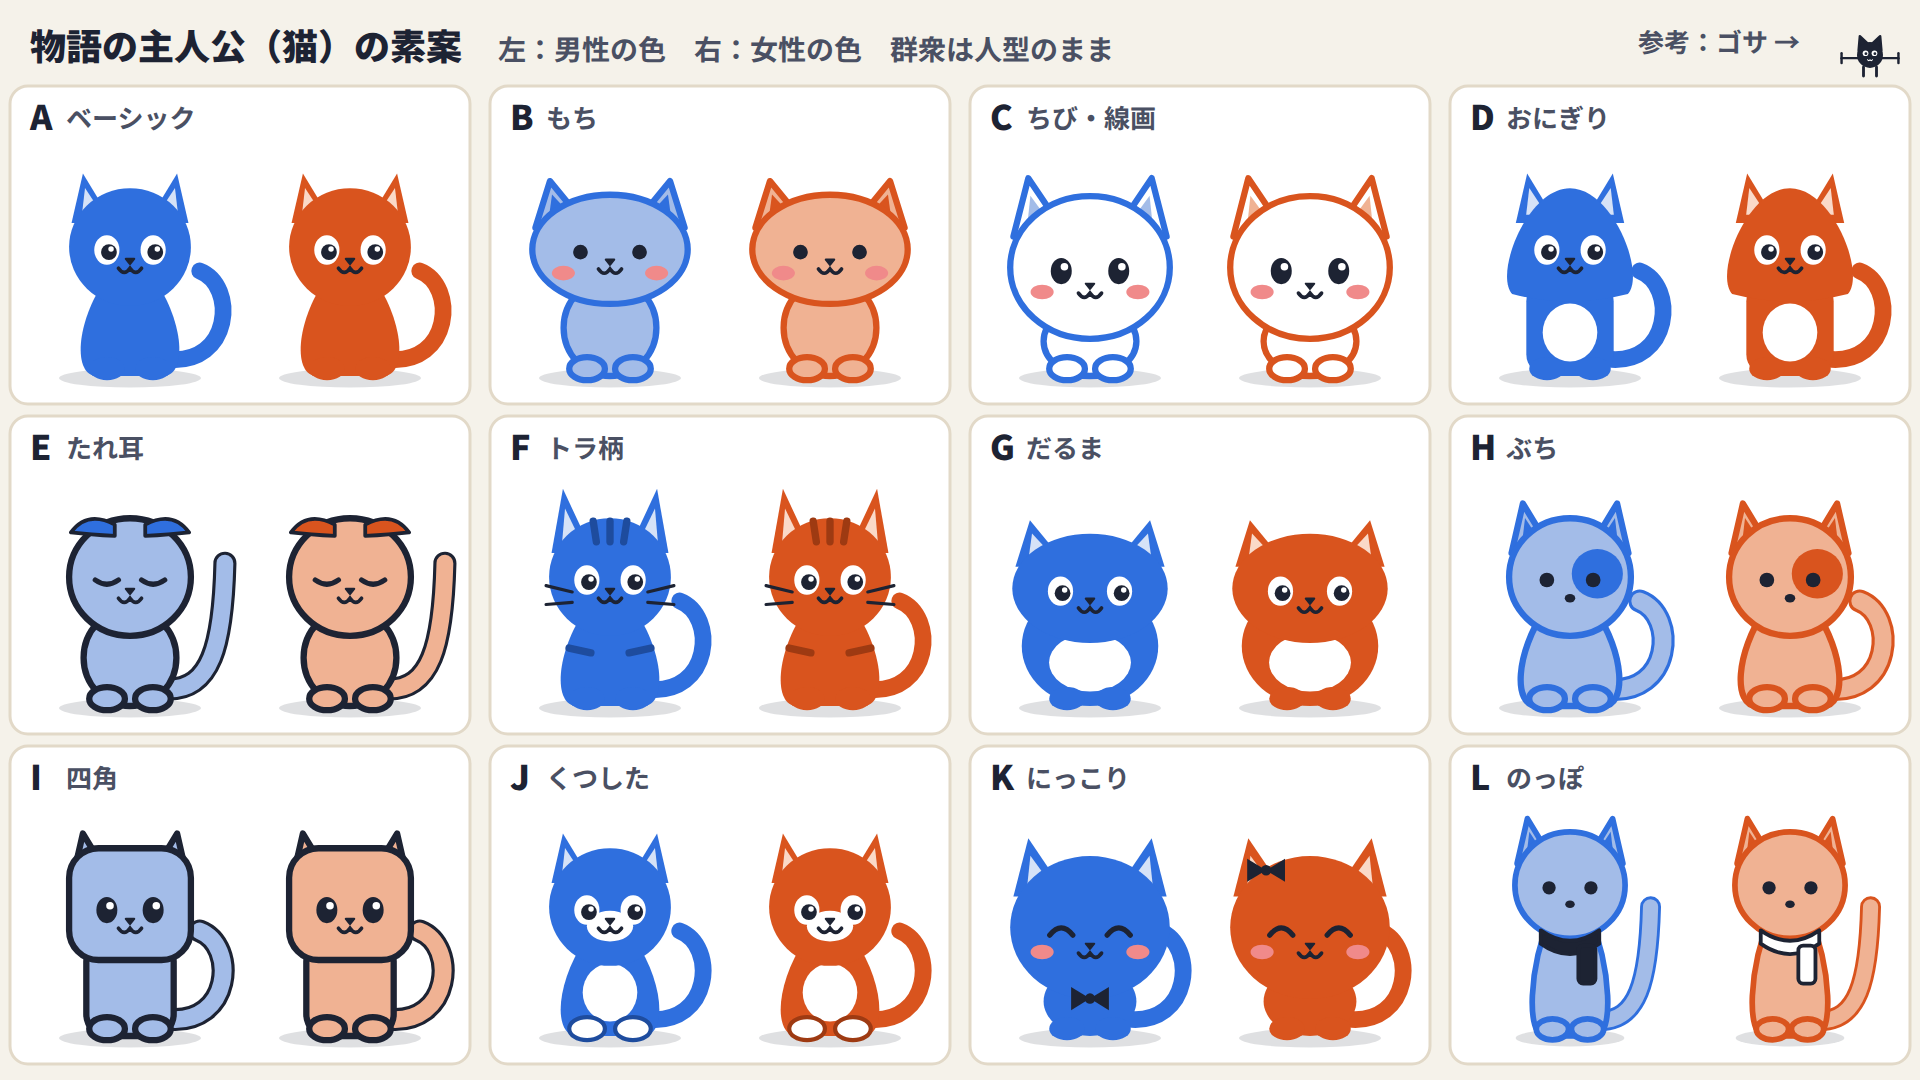
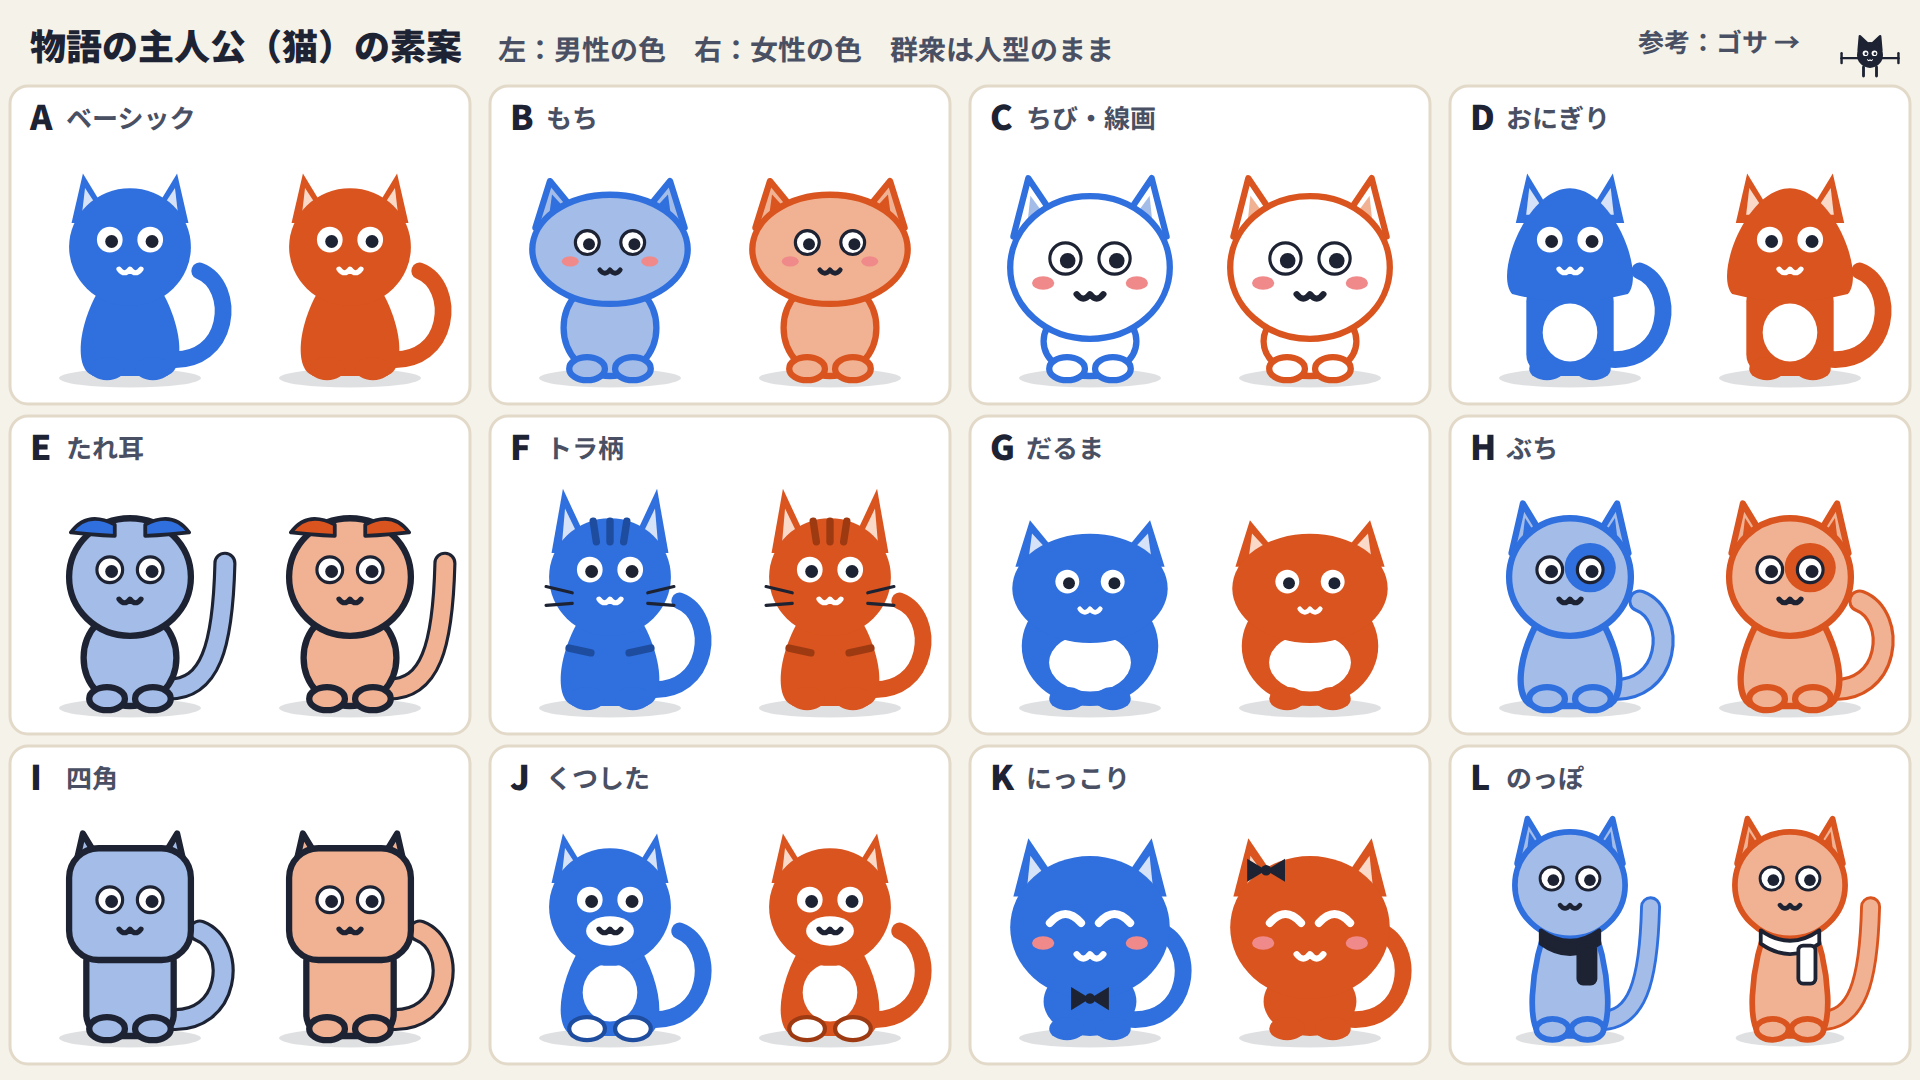
猫の素案：目と口をゴサと同じ形にそろえる
白目に小さい黒目、細いω の口、鼻なし（Gosa.tsx の Eyes・Mouth と同じ比率）。

Claude-Session: https://claude.ai/code/session_01UrfnK6HJ6yD1PEo9f9jukr

diff --git a/render/src/demo/CatSheet.tsx b/render/src/demo/CatSheet.tsx
@@ -86,29 +86,21 @@ export const CatSketch: React.FC<{ d: CatDesign; sex: "male" | "female"; x: numb
       fill={d.fill === "full" ? p.dark : p.main} stroke={line === "none" ? "none" : line} strokeWidth={sw * 0.6} strokeLinejoin="round" />;
   };
 
-  const ey = hy + ry * 0.05, ex = rx * (d.chibi ? 0.36 : 0.38);
+  // 目と口はゴサと同じ形（Gosa.tsx の Eyes・Mouth。体の半径32を頭の大きさに合わせて広げる）。2026-10-05 オーナー「目と口はゴサと同じトーン」
+  const k = ry / 32, kx = Math.max(k, rx / 32 * 0.85);
+  const face = d.fill === "full" && d.pattern !== "socks" ? C.white : C.ink;        // ゴサの paper にあたる色（目の白・口の線）
+  const ring = d.fill === "full" ? undefined : C.ink;       // 明るい体では白目のふちを墨で描く
+  const ey = hy - 4 * k, ex = 11 * kx;
   const eye = (side: 1 | -1) => {
     const cx = side * ex;
     switch (d.eyes) {
-      case "white": return <g key={side}><ellipse cx={cx} cy={ey} rx={12} ry={14} fill={C.white} /><circle cx={cx + 2} cy={ey + 2} r={7.5} fill={C.ink} /><circle cx={cx + 4} cy={ey - 1} r={2.6} fill={C.white} /></g>;
-      case "big": return <g key={side}><ellipse cx={cx} cy={ey} rx={10} ry={12.5} fill={C.ink} /><circle cx={cx + 3} cy={ey - 4} r={3.6} fill={C.white} /></g>;
-      case "sleepy": return <path key={side} d={`M ${cx - 11} ${ey} Q ${cx} ${ey + 8} ${cx + 11} ${ey}`} fill="none" stroke={C.ink} strokeWidth={5} strokeLinecap="round" />;
-      case "smile": return <path key={side} d={`M ${cx - 11} ${ey + 4} Q ${cx} ${ey - 10} ${cx + 11} ${ey + 4}`} fill="none" stroke={C.ink} strokeWidth={5} strokeLinecap="round" />;
-      default: return <circle key={side} cx={cx} cy={ey} r={7} fill={C.ink} />;
+      case "smile": return <path key={side} d={`M ${cx - 7 * k} ${ey + 2 * k} q ${7 * k} ${-8 * k} ${14 * k} 0`} fill="none" stroke={face} strokeWidth={4.5 * k * 0.8} strokeLinecap="round" />;
+      case "sleepy": return <g key={side}><path d={`M ${cx - 7 * k} ${ey - k} h ${14 * k} a ${7 * k} ${7 * k} 0 0 1 ${-14 * k} 0 z`} fill={C.white} stroke={ring} strokeWidth={ring ? 3 : 0} /><circle cx={cx} cy={ey + 2.5 * k} r={3 * k} fill={C.ink} /></g>;
+      default: return <g key={side}><circle cx={cx} cy={ey} r={7 * k} fill={C.white} stroke={ring} strokeWidth={ring ? 3 : 0} /><circle cx={cx + k} cy={ey + k} r={3.5 * k} fill={C.ink} /></g>;
     }
   };
-  const my = hy + ry * 0.36;
-  const mouth = () => {
-    const m = d.mouth ?? "w";
-    if (m === "none") return null;
-    if (m === "dot") return <ellipse cx={0} cy={my} rx={5} ry={4} fill={C.ink} />;
-    return (
-      <g>
-        <path d={`M -4 ${my - 9} L 4 ${my - 9} L 0 ${my - 4} Z`} fill={C.ink} stroke={C.ink} strokeWidth={2} strokeLinejoin="round" />
-        <path d={`M -11 ${my} Q -5.5 ${my + 8} 0 ${my} Q 5.5 ${my + 8} 11 ${my}`} fill="none" stroke={C.ink} strokeWidth={3.5} strokeLinecap="round" />
-      </g>
-    );
-  };
+  const my = hy + 12 * k;
+  const mouth = () => <path d={`M ${-6 * k} ${my} q ${3 * k} ${4 * k} ${6 * k} 0 q ${3 * k} ${4 * k} ${6 * k} 0`} fill="none" stroke={face} strokeWidth={2.8 * k} strokeLinecap="round" strokeLinejoin="round" />;
   const tailEl = () => {
     const t = d.tail ?? "curl";
     if (t === "none") return null;
@@ -139,9 +131,9 @@ export const CatSketch: React.FC<{ d: CatDesign; sex: "male" | "female"; x: numb
     </g>
   );
   const patch = () => pat !== "patch" ? null : (
-    <ellipse cx={ex + 4} cy={ey - 6} rx={rx * 0.42} ry={ry * 0.42} fill={p.main} />
+    <ellipse cx={ex} cy={ey - 2} rx={rx * 0.42} ry={ry * 0.42} fill={p.main} />
   );
-  const muzzle = () => pat !== "socks" ? null : <ellipse cx={0} cy={my - 2} rx={rx * 0.38} ry={ry * 0.26} fill={C.white} />;
+  const muzzle = () => pat !== "socks" ? null : <ellipse cx={0} cy={my + k} rx={13 * k} ry={8 * k} fill={C.white} />;
   const whisk = () => !d.whiskers ? null : (
     <g stroke={C.ink} strokeWidth={3} strokeLinecap="round">
       {[-1, 1].flatMap((k) => [0, 1].map((j) => <line key={`${k}${j}`} x1={k * rx * 0.62} y1={my - 6 + j * 10} x2={k * rx * 1.05} y2={my - 12 + j * 18} />))}
@@ -172,7 +164,7 @@ export const CatSketch: React.FC<{ d: CatDesign; sex: "male" | "female"; x: numb
       {d.ears === "fold" && [foldEar(-1), foldEar(1)]}
       {patch()}
       {muzzle()}
-      {d.blush && [-1, 1].map((k) => <ellipse key={k} cx={k * rx * 0.6} cy={ey + 20} rx={11} ry={7} fill={BLUSH} />)}
+      {d.blush && [-1, 1].map((sd) => <ellipse key={sd} cx={sd * (ex + 10 * k)} cy={ey + 11 * k} rx={5 * k} ry={3 * k} fill={BLUSH} />)}
       {eye(-1)}{eye(1)}
       {mouth()}
       {whisk()}
@@ -186,14 +178,14 @@ export const CAT_DESIGNS: { key: string; name: string; d: CatDesign }[] = [
   { key: "B", name: "もち", d: { head: "mochi", ears: "point", body: "bean", eyes: "dot", fill: "tint", blush: true, tail: "none" } },
   { key: "C", name: "ちび・線画", d: { head: "round", ears: "point", body: "bean", eyes: "big", fill: "outline", blush: true, chibi: true, tail: "none" } },
   { key: "D", name: "おにぎり", d: { head: "onigiri", ears: "point", body: "rect", eyes: "white", fill: "full", pattern: "belly" } },
-  { key: "E", name: "たれ耳", d: { head: "round", ears: "fold", body: "bean", eyes: "sleepy", fill: "inkline", tail: "straight" } },
+  { key: "E", name: "たれ耳", d: { head: "round", ears: "fold", body: "bean", eyes: "dot", fill: "inkline", tail: "straight" } },
   { key: "F", name: "トラ柄", d: { head: "round", ears: "big", body: "pear", eyes: "white", fill: "full", pattern: "stripes", whiskers: true } },
   { key: "G", name: "だるま", d: { head: "mochi", ears: "point", body: "daruma", eyes: "white", fill: "full", pattern: "belly", tail: "none" } },
-  { key: "H", name: "ぶち", d: { head: "round", ears: "point", body: "pear", eyes: "dot", fill: "tint", pattern: "patch", mouth: "dot" } },
+  { key: "H", name: "ぶち", d: { head: "round", ears: "point", body: "pear", eyes: "dot", fill: "tint", pattern: "patch" } },
   { key: "I", name: "四角", d: { head: "square", ears: "point", body: "rect", eyes: "big", fill: "inkline" } },
   { key: "J", name: "くつした", d: { head: "round", ears: "point", body: "pear", eyes: "white", fill: "full", pattern: "socks" } },
   { key: "K", name: "にっこり", d: { head: "mochi", ears: "point", body: "bean", eyes: "smile", fill: "full", blush: true, chibi: true, acc: "bow" } },
-  { key: "L", name: "のっぽ", d: { head: "round", ears: "point", body: "tall", eyes: "dot", fill: "tint", tail: "straight", acc: "scarf", mouth: "dot" } },
+  { key: "L", name: "のっぽ", d: { head: "round", ears: "point", body: "tall", eyes: "dot", fill: "tint", tail: "straight", acc: "scarf" } },
 ];
 
 const CW = 480, CH = 330, TOP = 80;
